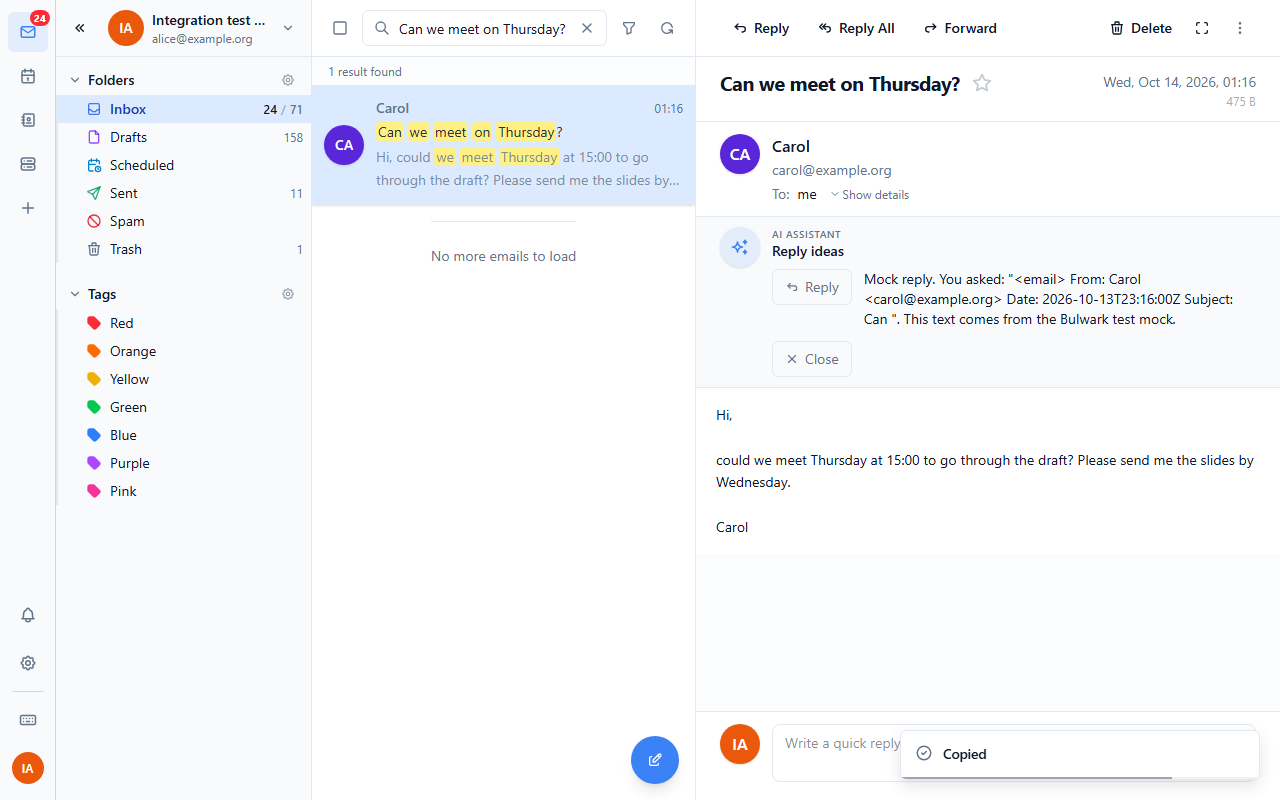
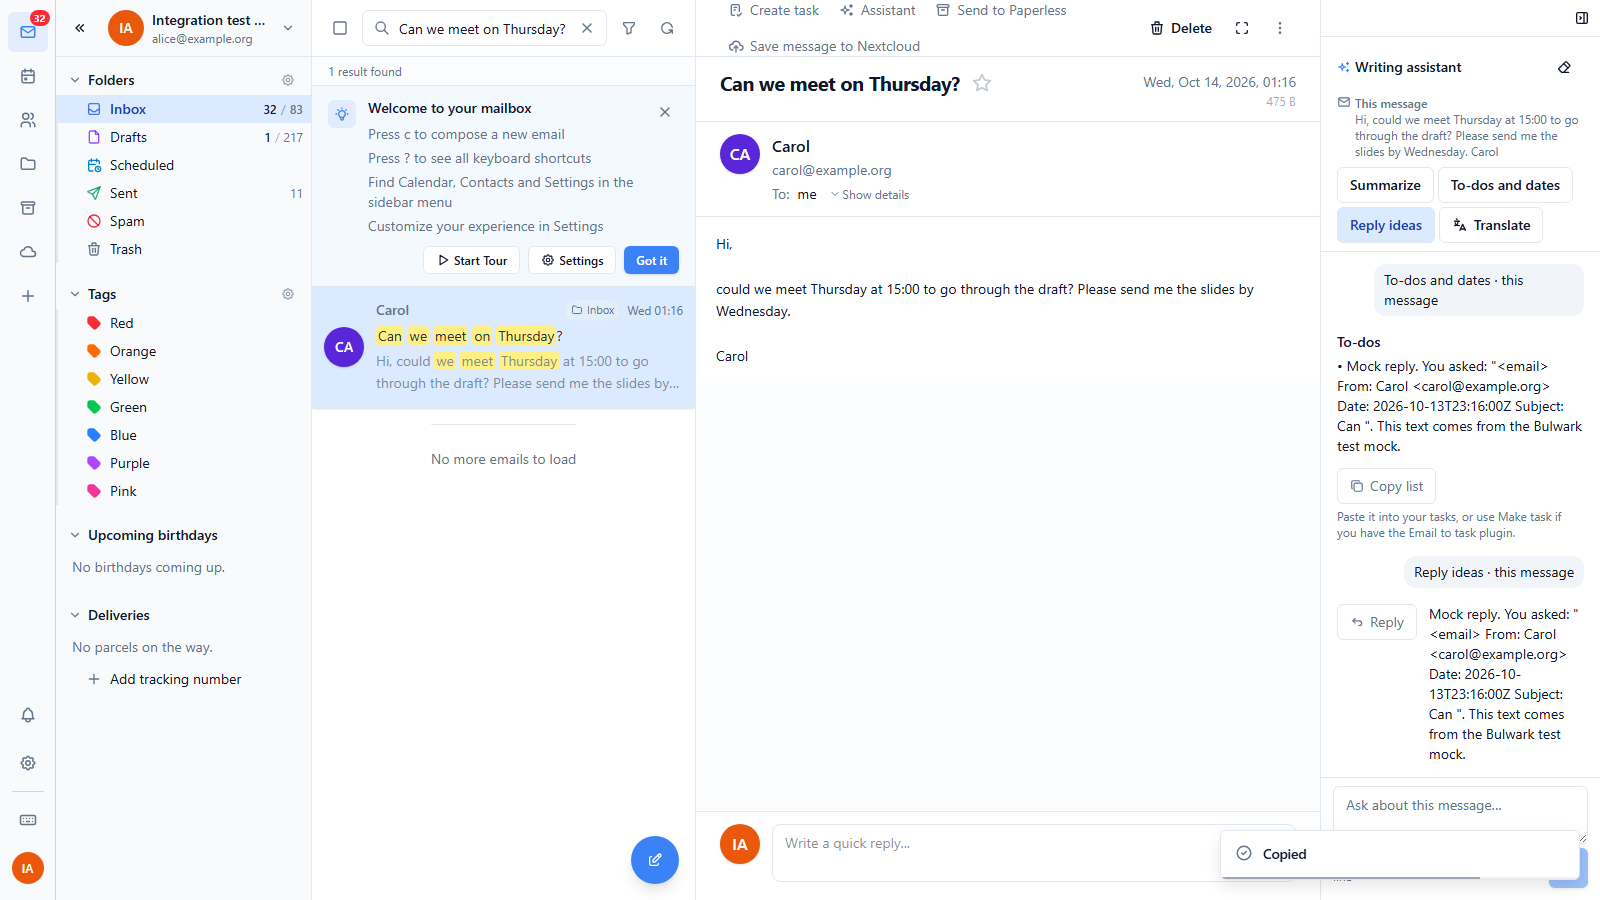
docs: refresh the writing assistant's readme and screenshots for the panel

diff --git a/ai-assistant/README.md b/ai-assistant/README.md
@@ -13,8 +13,9 @@ server the text goes to and which model answers, and have to confirm.
 ## Writing
 
 Click **Assistant** in the composer's bottom bar or press **Alt+A**: the
-assistant opens as a panel next to the message (fold it with the arrow
-at its top, drag its edge to make it wider). It shows what it works on:
+assistant opens as a panel next to the message (Alt+A or the arrow at its
+top folds it again, and it stays the way you left it; drag its edge to
+make it wider). It shows what it works on:
 
 - **Selected text**: highlight part of the message and the panel follows.
 - **Your message**: nothing selected, the text you wrote so far (the
@@ -41,7 +42,8 @@ gets to work on that text.
 
 ## Reading
 
-Next to an open message the panel offers **Summarize**, **To-dos and
+Click **Assistant** in the toolbar of an open message to open its panel
+(or right-click selected text). It offers **Summarize**, **To-dos and
 dates** (with due dates, as a copyable checklist), **Reply ideas** (three
 short replies; **Reply** opens one in the composer) and **Translate**. Ask
 anything about the message below: "what do they want from me?", "when is
@@ -139,6 +141,7 @@ composer closes).
 | `ui:email-details` | The panel next to the open message (`email-detail-sidebar`) |
 | `ui:composer-toolbar` | The Assistant button in the composer's bottom bar and the right-click entries on selected text in the message |
 | `ui:context-menu` | The right-click entries on selected text in an open message |
+| `ui:toolbar` | The Assistant button in the open message's toolbar (`reader-actions`) |
 | `ui:email-banner` | The bar above a message on phones and the conversation summary |
 | `ui:settings-section` | The plugin's settings page |
 | `compose:read` | Read the selection or your own text of the message the assistant works on |
@@ -179,3 +182,15 @@ Ollama (`up.ps1 -WithAI`). They use the Anthropic and OpenAI mocks
 through both its OpenAI-compatible and its Anthropic API.
 `e2e/seed_thread.py` adds a three-message conversation to alice's inbox
 for the conversation summary.
+
+## Screenshots
+
+| | |
+| --- | --- |
+| ![The panel next to a new message, light](screenshots/composer-panel-the-anthropic-mock-light.png) | ![A proposal, marked against the message](screenshots/composer-proposal-the-anthropic-mock-light.png) |
+| ![The panel, dark](screenshots/composer-proposal-the-openai-mock-dark.png) | ![Writing an empty message](screenshots/composer-write-light.png) |
+| ![The right-click menu on selected text in the composer](screenshots/composer-context-menu-light.png) | ![Spelling fixes, dark](screenshots/composer-grammar-dark.png) |
+| ![The panel next to an open message](screenshots/reader-panel-light.png) | ![A summary, dark](screenshots/reader-summary-dark.png) |
+| ![Reply ideas](screenshots/reader-replies-light.png) | ![The right-click menu on a passage of a message](screenshots/reader-context-menu-light.png) |
+| ![The bar on a phone](screenshots/reader-bar-phone-light.png) | ![The dialog in a phone's composer](screenshots/composer-dialog-phone-light.png) |
+| ![A rate limit](screenshots/composer-rate-limit-light.png) | ![Settings, dark](screenshots/settings-own-key-dark.png) |
